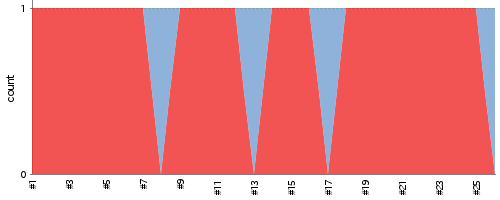
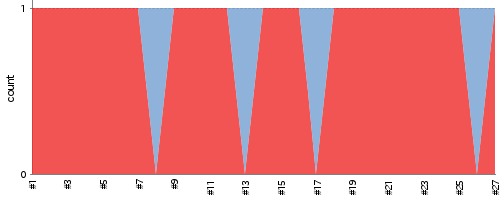
update report

diff --git a/index.md b/index.md
@@ -2,7 +2,7 @@
 layout: default
 ---
 # Jenkins CI report For HRG
-## Build and test report (2015/07/03 10:28:25)
+## Build and test report (2015/07/03 11:28:30)
 ### Build Status
 ___
 ![Build Status](http://jenkinshrg.github.io/images/badge.svg)
@@ -25,18 +25,19 @@ ___
 ___
 * Status
   
-![Jenkins Icon](http://jenkinshrg.github.io/images/48x48/blue.png)
-SUCCESS
+![Jenkins Icon](http://jenkinshrg.github.io/images/48x48/yellow.png)
+UNSTABLE
   
 * Stability
   
 ![Jenkins Icon](http://jenkinshrg.github.io/images/48x48/health-00to19.png)
-15%
+14%
   
 * Latest Results
   
 |Status|Time|Duration|Changes|Build|Test|Note|
 |---|---|---|---|---|---|---|
+|![Jenkins Icon](http://jenkinshrg.github.io/images/24x24/yellow.png)UNSTABLE|2015/07/03 11:00|28 min.||[BUILD](https://drive.google.com/file/d/0B54sHwaxmuM4c3dadUFGd2RJOFU/view?usp=drivesdk) |[CONSOLE](https://drive.google.com/file/d/0B54sHwaxmuM4cUpyNVJpMGVXMjQ/view?usp=drivesdk) [IMAGE](https://drive.google.com/file/d/0B54sHwaxmuM4Y1I2Tm9BZjg3M1k/edit?usp=drivesdk) [VIDEO](https://drive.google.com/file/d/0B54sHwaxmuM4dkwzZkJ3OXJjMG8/edit?usp=drivesdk) |STOP NORMAL|
 |![Jenkins Icon](http://jenkinshrg.github.io/images/24x24/blue.png)SUCCESS|2015/07/03 10:00|28 min.||[BUILD](https://drive.google.com/file/d/0B54sHwaxmuM4b2k0M2oyRldxUGs/view?usp=drivesdk) |[CONSOLE](https://drive.google.com/file/d/0B54sHwaxmuM4bHJMZVdpVFF3ZVk/view?usp=drivesdk) [IMAGE](https://drive.google.com/file/d/0B54sHwaxmuM4bjJDLUtDZktCWDA/edit?usp=drivesdk) [VIDEO](https://drive.google.com/file/d/0B54sHwaxmuM4TUdBaENFSHRJOTA/edit?usp=drivesdk) | |
 |![Jenkins Icon](http://jenkinshrg.github.io/images/24x24/yellow.png)UNSTABLE|2015/07/03 09:00|28 min.||[BUILD](https://drive.google.com/file/d/0B54sHwaxmuM4dWk0RTJkcnhnVnc/view?usp=drivesdk) |[CONSOLE](https://drive.google.com/file/d/0B54sHwaxmuM4dU1RVG9falFLS3M/view?usp=drivesdk) [IMAGE](https://drive.google.com/file/d/0B54sHwaxmuM4eTFVX0w0dFFxSDg/edit?usp=drivesdk) [VIDEO](https://drive.google.com/file/d/0B54sHwaxmuM4cjBlZE5OOVE5b2M/edit?usp=drivesdk) |STOP NORMAL|
 |![Jenkins Icon](http://jenkinshrg.github.io/images/24x24/yellow.png)UNSTABLE|2015/07/03 08:00|28 min.||[BUILD](https://drive.google.com/file/d/0B54sHwaxmuM4eG43MjRmSWhGa0U/view?usp=drivesdk) |[CONSOLE](https://drive.google.com/file/d/0B54sHwaxmuM4VnNPUzhqeGlrQ00/view?usp=drivesdk) [IMAGE](https://drive.google.com/file/d/0B54sHwaxmuM4VVYzOGtSZDJEZ1U/edit?usp=drivesdk) [VIDEO](https://drive.google.com/file/d/0B54sHwaxmuM4dUFUS3Jtc2pPQTg/edit?usp=drivesdk) |STOP NORMAL|
